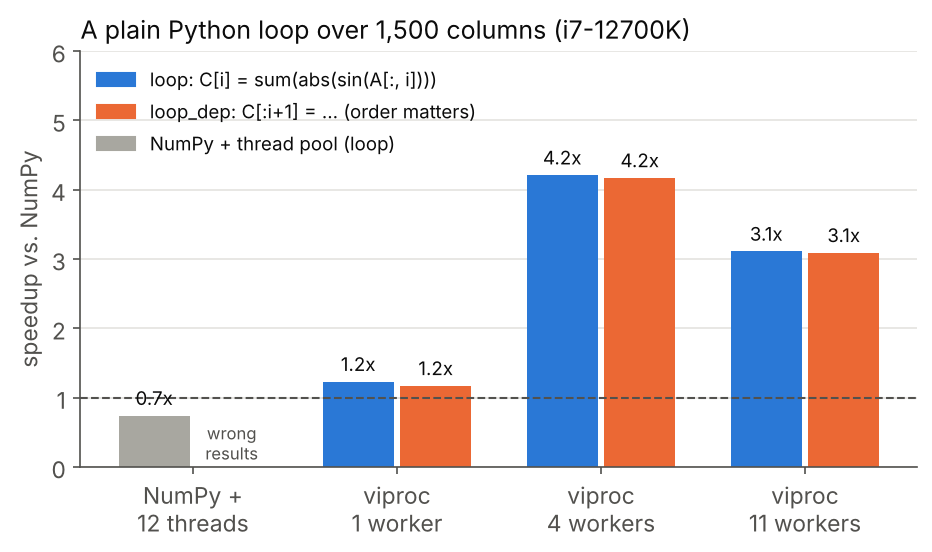
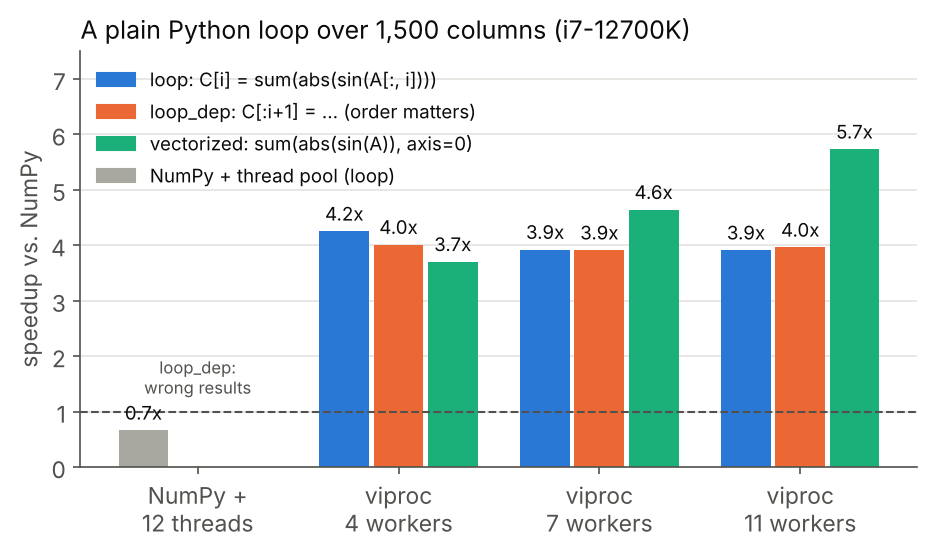
README: loop chart from the current 12700K run (after #58)
loop 4.25/3.92/3.91x, loop_dep 4.01/3.91/3.96x, vectorized
3.70/4.64/5.73x at 4/7/11 workers, NumPy with 12 threads 0.66x; the
speedups are added to docs/benchmarks.md next to the ms table.

Claude-Session: https://claude.ai/code/session_01JT2yHk9UbuLTYZoqmDig1z

diff --git a/docs/benchmarks/readme/make_charts.py b/docs/benchmarks/readme/make_charts.py
@@ -40,34 +40,36 @@ def label_bars(ax, bars, fmt="{:.1f}x"):
 
 
 def loop_chart():
-    # docs/benchmarks.md, "Array pipelining", "Measured costs, chains":
-    # i7-12700K, Windows, 1500 x 1500, build b7ee06d, speedup vs. NumPy at
-    # 1/4/11 workers; NumPy with 12 threads (Parallel.For over the columns):
-    # 0.43-0.74x (best shown); loop_dep gives wrong results with threads.
-    workers = ["NumPy +\n12 threads", "viproc\n1 worker", "viproc\n4 workers", "viproc\n11 workers"]
-    loop = [0.74, 1.23, 4.21, 3.11]
-    dep = [None, 1.17, 4.17, 3.09]
+    # docs/benchmarks.md, "Worker pool: bounded wake-ups, ...": i7-12700K,
+    # Windows, 1500 x 1500, main after #58, `array_pipelining.py --sizes
+    # 1500:10 --workers 4,7,11 --samples 7`, speedup vs. NumPy. NumPy with 12
+    # threads is the demo's Parallel.For over the columns of `loop`; for
+    # `loop_dep` it gives wrong results.
+    from matplotlib.patches import Patch
+    cols = ["NumPy +\n12 threads", "viproc\n4 workers", "viproc\n7 workers", "viproc\n11 workers"]
+    series = [
+        ("loop: C[i] = sum(abs(sin(A[:, i])))", [0.66, 4.25, 3.92, 3.91]),
+        ("loop_dep: C[:i+1] = ... (order matters)", [None, 4.01, 3.91, 3.96]),
+        ("vectorized: sum(abs(sin(A)), axis=0)", [None, 3.70, 4.64, 5.73]),
+    ]
     fig, ax = plt.subplots(figsize=(7.2, 3.6))
-    x = range(len(workers))
-    w = 0.38
-    b1 = ax.bar([i - w / 2 for i in x], loop, w * 0.92, color=[NUMPY] + [SERIES[0]] * 3,
-                label="loop: C[i] = sum(abs(sin(A[:, i])))")
-    b2 = ax.bar([i + w / 2 for i in x[1:]], dep[1:], w * 0.92, color=SERIES[1],
-                label="loop_dep: C[:i+1] = ... (order matters)")
-    label_bars(ax, b1)
-    label_bars(ax, b2)
-    ax.annotate("wrong\nresults", (0 + w / 2, 0.05), ha="center", va="bottom",
+    w = 0.27
+    for j, (name, vals) in enumerate(series):
+        xs = [i + (j - 1) * w for i, v in enumerate(vals) if v is not None]
+        vs = [v for v in vals if v is not None]
+        colors = [NUMPY if (j == 0 and k == 0) else SERIES[j] for k in range(len(vs))]
+        bars = ax.bar(xs, vs, w * 0.92, color=colors)
+        label_bars(ax, bars)
+    ax.annotate("loop_dep:\nwrong results", (0, 1.25), ha="center", va="bottom",
                 fontsize=8, color=INK2)
     ax.axhline(1.0, color=INK2, lw=1, ls="--")
-    ax.set_xticks(list(x), workers)
+    ax.set_xticks(range(len(cols)), cols)
     ax.set_ylabel("speedup vs. NumPy")
-    ax.set_ylim(0, 6)
+    ax.set_ylim(0, 7.5)
     ax.yaxis.grid(True, color=GRID)
     ax.set_axisbelow(True)
-    from matplotlib.patches import Patch
-    ax.legend(handles=[Patch(color=SERIES[0], label=b1.get_label()),
-                       Patch(color=SERIES[1], label=b2.get_label()),
-                       Patch(color=NUMPY, label="NumPy + thread pool (loop)")],
+    ax.legend(handles=[Patch(color=SERIES[j], label=n) for j, (n, _) in enumerate(series)]
+              + [Patch(color=NUMPY, label="NumPy + thread pool (loop)")],
               frameon=False, fontsize=9, loc="upper left")
     ax.set_title("A plain Python loop over 1,500 columns (i7-12700K)", loc="left", fontsize=12)
     save(fig, "loop.png")

diff --git a/README.md b/README.md
@@ -39,11 +39,12 @@ python -m viproc prog.py          # your unchanged NumPy program, now in paralle
 
 All results bit-identical to NumPy; speedup = NumPy time / viproc time.
 
-![A plain Python loop over columns: 4.2x with 4 workers, NumPy with a thread pool 0.7x](docs/benchmarks/readme/loop.png)
+![A plain Python loop over columns: 3.9-4.2x, the vectorized form 5.7x, NumPy with a thread pool 0.7x](docs/benchmarks/readme/loop.png)
 
 ILNumerics' array-pipelining demo (`python/benchmarks/array_pipelining.py`): a Python loop
 over the columns of a 1,500 x 1,500 matrix, nothing annotated. A thread pool makes NumPy
-slower (the GIL) and the order-dependent variant wrong; viproc overlaps the iterations.
+slower (the GIL) and the order-dependent variant wrong; viproc overlaps the iterations and
+keeps their order where it matters.
 
 ![Speedups of unchanged NumPy programs on 4 cores](docs/benchmarks/readme/programs.png)
 

diff --git a/docs/benchmarks.md b/docs/benchmarks.md
@@ -870,7 +870,12 @@ took turns. `array_pipelining.py --sizes 1500:10`, ms per run:
 | + lock-free queue, LIFO wake | 2.92 | 3.17 | 3.18 | 3.21 | 3.29 | 3.25 | 2.53 |
 
 With all three, 11 workers lose 9% against 4 in `loop` (was 31%) and
-1% in `loop_dep`; 4 workers gained 8%. Pinned to the P-cores (bounded
+1% in `loop_dep`; 4 workers gained 8%.
+Speedups of the last row (`--workers 4,7,11 --samples 7`, NumPy 12.43 /
+12.87 / 14.50 ms for `loop` / `loop_dep` / `vectorized`): `loop`
+4.25x / 3.92x / 3.91x at w=4/7/11, `loop_dep` 4.01x / 3.91x / 3.96x,
+`vectorized` 3.70x / 4.64x / 5.73x; NumPy with 12 threads (`loop`)
+18.85 ms, 0.66x. Pinned to the P-cores (bounded
 wake-ups only): `loop` w=4/7/11 3.16/3.41/3.50 ms.
 
 ### Real-world programs (`realworld.py`)
